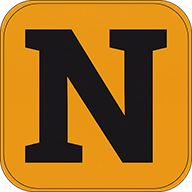
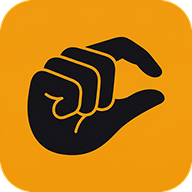
v2.2.0
improved consistency of visual language and responsiveness on smaller screens.

diff --git a/js/app.js b/js/app.js
@@ -215,7 +215,7 @@
       qNoProd: "Produto não encontrado. Escolha um da lista.",
       qNeedSize: "O histórico deste produto tem quantidade: informe a quantidade e a unidade.",
       qUnit: "Sem como comparar: a unidade não bate com o histórico deste produto.",
-      qGreat: "Ótimo negócio", qStd: "Preço normal", qExp: "Caro",
+      qGreat: "No precinho!!!", qStd: "Preço normal", qExp: "Tá caro, sai fora",
       qVsLow: "vs. menor preço", qVsLast: "vs. último preço",
       sTitle: "Comparação entre lojas",
       sHint: "Índice da cesta: preço de cada loja em relação ao mais barato de cada item (100% = sempre o mais barato), ponderado pelo número de compras. Só entram itens com preços em 2 ou mais lojas.",
@@ -234,28 +234,28 @@
       fDiffN: "Diferença = Último (normalizado) − Menor (normalizado)",
       noCompare: "Não dá para comparar: o último preço não tem quantidade, mas o menor tem. Informe a quantidade nas próximas compras.",
       newLow: "Nova mínima!", lowSaved: "Nova mínima histórica! {p}: {v} em {s}.",
-      lead: "Registre o que você pagou. Cada preço aparece com o valor por Kg, L ou un ao lado, e o menor preço é sempre o de menor valor normalizado, para comparar embalagens de tamanhos diferentes.",
+      lead: "Preços comparados pelo valor normalizado (por Kg, L ou unidade), facilitando a comparação entre embalagens de tamanhos diferentes.",
       summary: "Resumo de preços", newPurchase: "Nova compra", settings: "Configurações",
       colProduct: "Produto", colLowest: "Menor preço", colLatest: "Último preço",
       colNominal: "Preço nominal", colActions: "Ações",
       one: "compra", many: "compras", atLowest: "No menor preço", above: "acima do menor",
       pack: "embalagem", noSize: "Sem embalagem informada", cheapest: "Mais barato por {u}",
       showCalc: "Ver cálculo", remove: "Remover", removeAria: "Remover {n} e todo o histórico",
-      empty: "Nenhuma compra ainda. Toque em \u201cNova compra\u201d para começar.",
+      empty: "Nenhuma compra ainda, chefia. Vai lá em \u201cNova compra\u201d para gente ter com o que brincar.",
       fProduct: "Produto", fPrice: "Preço pago", fStore: "Onde comprou",
       fSize: "Quantidade", fUnit: "Unidade de medida",
-      phProduct: "ex.: Leite integral", phPrice: "ex.: 4,99",
-      phStore: "ex.: Mercado do Bairro", phSize: "ex.: 500",
-      sizeHint: "Opcional. Gramas (g), mililitros (ml) ou unidades (un). Com a quantidade, o app compara o preço por Kg, por L ou por un.",
-      addHint: "Use sempre o mesmo nome para o mesmo produto (maiúsculas e espaços extras são ignorados). A data é registrada automaticamente.",
+      phProduct: "ex.: Leite Integral", phPrice: "ex.: 4,99",
+      phStore: "ex.: Mercadinho X", phSize: "ex.: 500",
+      sizeHint: "Opcional. Gramas (g), quilogramas (Kg), mililitros (ml), litros (L) ou unidades (un). Com a quantidade, o app compara o preço por Kg, por L ou por unidade.",
+      addHint: "Use sempre o mesmo nome para o mesmo produto (espaços extras são ignorados e cada palavra é capitalizada). A data é registrada automaticamente.",
       cancel: "Cancelar", savePurchase: "Salvar compra", close: "Fechar",
       eProduct: "Informe o nome do produto.", ePriceEmpty: "Informe o preço pago.",
-      ePriceBad: "Use um número com no máximo 2 casas decimais, como 4,99.",
-      ePriceZero: "O preço deve ser maior que zero.",
-      ePriceHigh: "Esse preço parece alto demais. Confira se há erro de digitação.",
+      ePriceBad: "Use um número com no máximo 2 casas decimais, ex.: 4,99.",
+      ePriceZero: "Tá de graça é? Capais memo.",
+      ePriceHigh: "Tá loco??? Preço parece alto demais, confere aí se é isso mesmo.",
       eStore: "Informe onde você comprou.",
-      eSizeBad: "Use um número maior que zero, como 500.",
-      eSizeHigh: "Esse tamanho parece grande demais. Confira a unidade.",
+      eSizeBad: "Use um número maior que zero, ex.: 500.",
+      eSizeHigh: "Calma lá, fera. Tamanho parece grande demais, confere aí se a unidade tá certa.",
       saved: "Salvo: {p} {v} em {s}.",
       calcTitle: "Como o resultado é calculado",
       calcEmpty: "Escolha \u201cVer cálculo\u201d em um produto para ver a conta.",
@@ -270,16 +270,16 @@
       decComma: "Vírgula (4,99)", decDot: "Ponto (4.99)",
       impTitle: "Backup e restauração",
       impHint: "As compras importadas são somadas às existentes; duplicadas são ignoradas.",
-      impBtn: "Importar arquivo CSV\u2026",
+      impBtn: "Importar arquivo CSV",
       impEmpty: "O arquivo está vazio ou só tem o cabeçalho.",
       impHeader: "Cabeçalho não reconhecido. São necessárias as colunas Produto, Preço e Local.",
       impRead: "Não foi possível ler o arquivo.",
       impDone: "Importadas: {a}. Duplicadas ignoradas: {d}. Com erro: {e}.",
       impLine: "Linha {n}: {m}",
       iProd: "produto ou local em branco", iPrice: "preço inválido",
-      iDate: "data inválida ou no futuro", iSize: "quantidade ou unidade inválida",
+      iDate: "data inválida ou no futuro, e viajantes do tempo não são bem-vindos", iSize: "quantidade ou unidade inválida",
       iMore: "\u2026 e mais {n} linha(s) com erro.",
-      expSummary: "Baixar resumo (CSV)", expLog: "Baixar histórico completo (CSV)",
+      expSummary: "Baixar resumo em CSV", expLog: "Baixar histórico completo em CSV",
       wipe: "Apagar dados do navegador",
       wipeFsa: "Apagar dados do navegador",
       localHint: "As configurações são sempre salvas neste navegador. Os dados de compras são salvos no arquivo JSON vinculado — o armazenamento do navegador é usado apenas como reserva temporária e é limpo automaticamente após cada gravação no arquivo.",
@@ -349,7 +349,7 @@
       phProduct: "e.g. Whole milk", phPrice: "e.g. 4.99",
       phStore: "e.g. Corner Market", phSize: "e.g. 500",
       sizeHint: "Optional. Grams (g), millilitres (ml) or units (un). With the quantity, the app compares price per Kg, per L or per unit.",
-      addHint: "Always use the same name for the same product (capitals and extra spaces are ignored). The date is recorded automatically.",
+      addHint: "Always use the same name for the same product (extra spaces are ignored and each word is capitalized). The date is recorded automatically.",
       cancel: "Cancel", savePurchase: "Save purchase", close: "Close",
       eProduct: "Enter the product name.", ePriceEmpty: "Enter the price you paid.",
       ePriceBad: "Use a number with at most 2 decimals, like 4.99.",
@@ -429,13 +429,20 @@
   function pad(n) { return ("0" + n).slice(-2); }
   function todayStr() { var d = new Date(); return d.getFullYear() + "-" + pad(d.getMonth() + 1) + "-" + pad(d.getDate()); }
 
-  // ─── Migration (old entries stored timestamps) ────────────────────────────────
-  var migrated = false;
-  log.forEach(function (e) {
-    if (!e.date) { var d = new Date(e.ts || Date.now()); e.date = d.getFullYear() + "-" + pad(d.getMonth() + 1) + "-" + pad(d.getDate()); migrated = true; }
-    if ("ts" in e) { delete e.ts; migrated = true; }
-  });
-  if (migrated) saveLog();
+  // ─── Migration (old entries stored timestamps; product display names) ─────────
+  function migrateEntries(entries) {
+    var changed = false;
+    entries.forEach(function (e) {
+      if (!e.date) { var d = new Date(e.ts || Date.now()); e.date = d.getFullYear() + "-" + pad(d.getMonth() + 1) + "-" + pad(d.getDate()); changed = true; }
+      if ("ts" in e) { delete e.ts; changed = true; }
+      if (e.product) {
+        var titled = titleCaseName(norm(e.product));
+        if (e.product !== titled) { e.product = titled; changed = true; }
+      }
+    });
+    return changed;
+  }
+  if (migrateEntries(log)) saveLog();
 
   // ─── Index ────────────────────────────────────────────────────────────────────
   var groups = {}, idx = { prod: {}, store: {} };
@@ -473,7 +480,7 @@
   }
   function applyLang() {
     document.documentElement.lang = settings.lang === "en" ? "en" : "pt-BR";
-    document.title = "NoPrecinho";
+    document.title = "noprecinho";
     applyTheme();
     Array.prototype.forEach.call(document.querySelectorAll("[data-i18n]"), function (n) { n.textContent = t(n.getAttribute("data-i18n")); });
     Array.prototype.forEach.call(document.querySelectorAll("[data-i18n-ph]"), function (n) { n.placeholder = t(n.getAttribute("data-i18n-ph")); });
@@ -493,8 +500,23 @@
   function stripSize(s) {
     return s.replace(/\s+\d+[,.]?\d*\s*(kg|g|ml|l|litro|litros|un|und|unid)\s*$/i, "").trim();
   }
+  // Title-case for display: "queijo mussarela" → "Queijo Mussarela".
+  // Keep common Portuguese (and English) particles lowercase unless they start the name.
+  var TITLE_SMALL = /^(a|as|o|os|à|às|ao|aos|de|da|do|das|dos|e|em|no|na|nos|nas|para|com|the|of|and|in)$/i;
+  function titleCaseWord(w) {
+    return w.split("-").map(function (part) {
+      if (!part) return part;
+      return part.charAt(0).toLocaleUpperCase("pt-BR") + part.slice(1).toLocaleLowerCase("pt-BR");
+    }).join("-");
+  }
+  function titleCaseName(s) {
+    return s.split(" ").map(function (w, i) {
+      if (i > 0 && TITLE_SMALL.test(w)) return w.toLocaleLowerCase("pt-BR");
+      return titleCaseWord(w);
+    }).join(" ");
+  }
   function cleanProductName(s) {
-    return norm(stripSize(s));
+    return titleCaseName(norm(stripSize(s)));
   }
 
   function groupNum(n) { return String(n).replace(/\B(?=(\d{3})+(?!\d))/g, settings.decimal === "," ? "." : ","); }
@@ -1237,13 +1259,7 @@
       return fsaRead().then(function (fileData) {
         if (Array.isArray(fileData) && fileData.length >= log.length) {
           log = fileData;
-          // Re-run migration on file data
-          var m2 = false;
-          log.forEach(function (e) {
-            if (!e.date) { var d = new Date(e.ts || Date.now()); e.date = d.getFullYear() + "-" + pad(d.getMonth() + 1) + "-" + pad(d.getDate()); m2 = true; }
-            if ("ts" in e) { delete e.ts; m2 = true; }
-          });
-          if (m2) saveLog();
+          if (migrateEntries(log)) saveLog();
           rebuildIndex();
         }
       });

diff --git a/index.html b/index.html
@@ -3,7 +3,7 @@
 <head>
 <meta charset="utf-8">
 <meta name="viewport" content="width=device-width, initial-scale=1">
-<title>NoPrecinho</title>
+<title>noprecinho</title>
 <link rel="manifest" href="./manifest.json">
 <meta name="theme-color" content="#121214">
 <meta name="mobile-web-app-capable" content="yes">
@@ -16,7 +16,7 @@
 <body>
 <main>
   <header>
-    <h1><span class="brand">NoPrecinho</span> <span class="tt" data-i18n="title"></span></h1>
+    <h1><span class="brand">no</span><span class="ink">precinho</span> 🤏</h1>
     <div class="hbtns">
     <button type="button" class="iconbtn" id="themeBtn">
       <svg class="ico-sun" viewBox="0 0 24 24" fill="none" stroke="currentColor" stroke-width="1.8" stroke-linecap="round" stroke-linejoin="round" aria-hidden="true"><circle cx="12" cy="12" r="4"/><path d="M12 2v2M12 20v2M4.9 4.9l1.4 1.4M17.7 17.7l1.4 1.4M2 12h2M20 12h2M4.9 19.1l1.4-1.4M17.7 6.3l1.4-1.4"/></svg>
@@ -33,7 +33,7 @@
   <section class="panel" aria-labelledby="sumH">
     <div class="bar">
       <h2 id="sumH" data-i18n="summary"></h2>
-      <div class="acts"><button type="button" class="ghost" id="openCheck" data-i18n="btnCheck"></button><button type="button" class="ghost" id="openStores" data-i18n="btnStores"></button><button type="button" id="openAdd" data-i18n="newPurchase"></button></div>
+      <div class="acts"><button type="button" class="iconbtn" id="openCheck" data-i18n-aria="btnCheck" title=""><svg viewBox="0 0 24 24" fill="none" stroke="currentColor" stroke-width="1.8" stroke-linecap="round" stroke-linejoin="round" aria-hidden="true"><path d="M12.6 2.6A2 2 0 0 0 11.2 2H4a2 2 0 0 0-2 2v7.2a2 2 0 0 0 .6 1.4l8.7 8.7a2.4 2.4 0 0 0 3.4 0l6.6-6.6a2.4 2.4 0 0 0 0-3.4z"/><circle cx="7.5" cy="7.5" r="1.1" fill="currentColor"/></svg></button><button type="button" class="iconbtn" id="openStores" data-i18n-aria="btnStores" title=""><svg viewBox="0 0 24 24" fill="none" stroke="currentColor" stroke-width="1.8" stroke-linecap="round" stroke-linejoin="round" aria-hidden="true"><path d="M3 9l1.6-5h14.8L21 9"/><path d="M3 9v1a3 3 0 0 0 6 0 3 3 0 0 0 6 0 3 3 0 0 0 6 0V9"/><path d="M5 13v7h14v-7"/></svg></button><button type="button" class="iconbtn primary" id="openAdd" data-i18n-aria="newPurchase" title=""><svg viewBox="0 0 24 24" fill="none" stroke="currentColor" stroke-width="2.2" stroke-linecap="round" stroke-linejoin="round" aria-hidden="true"><path d="M12 5v14M5 12h14"/></svg></button></div>
     </div>
     <div id="tableWrap"></div>
     <p id="status" role="status" aria-live="polite"></p>

diff --git a/css/app.css b/css/app.css
@@ -43,7 +43,7 @@ h1{font-size:clamp(1.4rem,4vw,2rem);line-height:1.2;margin:0;font-weight:700}
 h2{font-size:1.2rem;margin:0;font-weight:700}
 header{display:flex;align-items:flex-start;justify-content:space-between;gap:12px;margin-bottom:6px}
 .lead{margin:6px 0 20px;color:var(--muted);max-width:none;font-size:.9rem}
-.iconbtn{flex:none;width:44px;height:44px;padding:0;display:grid;place-items:center;background:transparent;color:var(--ink);border:1.5px solid var(--line);border-radius:50%}
+.iconbtn{flex:none;width:44px;height:44px;padding:0;display:grid;place-items:center;background:transparent;color:var(--ink);border:1.5px solid var(--line);border-radius:7px}
 .iconbtn svg{width:22px;height:22px}
 section.panel{background:var(--panel);border:1px solid var(--line);border-radius:10px;padding:18px}
 .bar{display:flex;flex-wrap:wrap;gap:12px;align-items:center;justify-content:space-between;margin-bottom:12px}
@@ -179,7 +179,10 @@ ol.stores{list-style:none;margin:0;padding:0}
 ol.stores li{padding:10px 0;border-bottom:1px solid var(--line)}
 ol.stores .meter{height:6px;border-radius:3px;background:var(--line);margin-top:6px}
 ol.stores .meter span{display:block;height:100%;border-radius:3px;background:var(--accent)}
-.bar .acts{display:flex;flex-wrap:wrap;gap:8px}
+.bar .acts{display:flex;flex-wrap:nowrap;flex:none;gap:8px}
+.acts .iconbtn{border-color:var(--accent);color:var(--accent-text)}
+.acts .iconbtn.primary{background:var(--accent);color:var(--accent-ink)}
+.acts .iconbtn.primary:hover{color:var(--accent-ink)}
 
 /* ── "Did you mean?" banner ─────────────────────────────────────── */
 .dym{background:var(--soft);border:1px solid var(--accent);border-radius:8px;padding:10px 12px;margin:0 0 12px}
